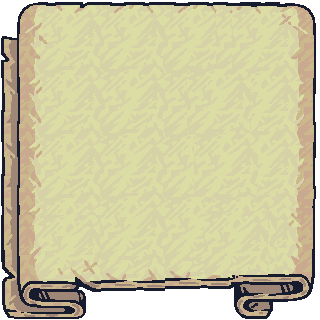
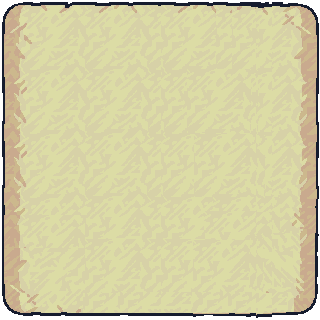
Add changes for release 7

diff --git a/src/client/scenes/Game.ts b/src/client/scenes/Game.ts
@@ -410,7 +410,7 @@ export class Game extends Scene {
     const stepsBg = this.add.image(offset, -offset, 'btn_steps').setOrigin(0.5);
     stepsBg.setDisplaySize(btnScale, btnScale);
     this.stepText = this.add.text(offset, -offset, '0', {
-      fontFamily: 'Arial',
+      fontFamily: 'Patrick Hand',
       fontSize: '24px',
       color: '#333333',
       fontStyle: 'bold'
@@ -595,9 +595,11 @@ export class Game extends Scene {
     
     const bg = this.add.image(0, 0, 'popup_bg');
     bg.setDisplaySize(500, 400);
+
+    const banner = this.add.nineslice(0, -45, 'banner_slots', undefined, 470, 280, 64, 64, 64, 64, true, true).setOrigin(0.5);
     
     const title = this.add.text(0, -160, 'Level Complete!', {
-      fontFamily: 'Arial',
+      fontFamily: 'Patrick Hand',
       fontSize: '32px',
       color: '#ffcc00',
       align: 'center',
@@ -617,7 +619,7 @@ export class Game extends Scene {
       wordWrap: { width: 436, useAdvancedWrap: true }
     }).setOrigin(0.5);
 
-    popup.add([bg, title, scoreText, loadingText]);
+    popup.add([bg, banner, title, scoreText, loadingText]);
 
     let scaleFactor = Math.min(this.scale.width / 1024, this.scale.height / 768, 1.2);
     if (this.scale.width < 800) {
@@ -659,7 +661,7 @@ export class Game extends Scene {
       const attempts = lbData.attempts || 0;
       const solves = lbData.solves || 0;
       const statsText = this.add.text(0, 70, `Global Stats: ${attempts} Plays | ${solves} Solves`, {
-        fontFamily: 'Arial',
+        fontFamily: 'Patrick Hand',
         fontSize: '16px',
         color: '#ffcc00',
         align: 'center',
@@ -678,7 +680,7 @@ export class Game extends Scene {
     okImg.setDisplaySize(140, 50);
     
     const okText = this.add.text(0, -4, 'Retry', {
-      fontFamily: 'Arial Black',
+      fontFamily: 'Patrick Hand',
       fontSize: '20px',
       color: '#ffffff',
       stroke: '#000000',
@@ -713,12 +715,16 @@ export class Game extends Scene {
     bg.setDisplaySize(400, 240);
     
     const text = this.add.text(0, -30, msg, {
-      fontFamily: 'Arial Black',
+      fontFamily: 'Patrick Hand',
       fontSize: '32px',
       color: '#ffffff',
       align: 'center',
       wordWrap: { width: 336, useAdvancedWrap: true }
     }).setOrigin(0.5);
+
+    const bannerWidth = Math.max(128, text.width + 60);
+    const bannerHeight = Math.max(128, text.height + 60);
+    const banner = this.add.nineslice(0, -30, 'banner_slots', undefined, bannerWidth, bannerHeight, 64, 64, 64, 64, true, true).setOrigin(0.5);
 
     // Add a retry button
     const retryBtn = this.add.container(0, 60);
@@ -726,7 +732,7 @@ export class Game extends Scene {
     retryImg.setDisplaySize(140, 50);
     
     const retryText = this.add.text(0, -4, 'Retry', {
-      fontFamily: 'Arial Black',
+      fontFamily: 'Patrick Hand',
       fontSize: '20px',
       color: '#ffffff',
       stroke: '#000000',
@@ -748,7 +754,7 @@ export class Game extends Scene {
     });
 
     retryBtn.add([retryImg, retryText]);
-    popup.add([bg, text, retryBtn]);
+    popup.add([bg, banner, text, retryBtn]);
     
     // Scale popup with game size
     let scaleFactor = Math.min(this.scale.width / 1024, this.scale.height / 768, 1.5);

diff --git a/src/client/scenes/MainMenu.ts b/src/client/scenes/MainMenu.ts
@@ -66,7 +66,7 @@ export class MainMenu extends Scene {
       const img = this.add.image(0, 0, 'menu_btn').setInteractive({ useHandCursor: true });
       img.setDisplaySize(240, 65);
       const txt = this.add.text(0, -4, 'Play Game', {
-        fontFamily: 'Arial Black',
+        fontFamily: 'Patrick Hand',
         fontSize: '28px',
         color: '#ffffff',
         stroke: '#000000',
@@ -99,7 +99,7 @@ export class MainMenu extends Scene {
       const img = this.add.image(0, 0, 'menu_btn').setInteractive({ useHandCursor: true });
       img.setDisplaySize(260, 65);
       const txt = this.add.text(0, -4, 'Level Designer', {
-        fontFamily: 'Arial Black',
+        fontFamily: 'Patrick Hand',
         fontSize: '24px',
         color: '#ffffff',
         stroke: '#000000',
@@ -147,7 +147,7 @@ export class MainMenu extends Scene {
     const title = document.createElement('h1');
     title.innerText = 'Select Base Level';
     title.style.color = 'white';
-    title.style.fontFamily = 'Arial, sans-serif';
+    title.style.fontFamily = 'Patrick Hand, cursive';
     title.style.marginBottom = '20px';
     overlay.appendChild(title);
 
@@ -170,7 +170,7 @@ export class MainMenu extends Scene {
       btn.innerText = text;
       btn.style.padding = '15px 30px';
       btn.style.fontSize = '18px';
-      btn.style.fontFamily = 'Arial Black';
+      btn.style.fontFamily = 'Patrick Hand';
       btn.style.cursor = 'pointer';
       btn.style.color = 'white';
       btn.style.border = 'none';
@@ -282,7 +282,7 @@ export class MainMenu extends Scene {
     bg.setDisplaySize(400, 240);
     
     const text = this.add.text(0, -40, msg, {
-      fontFamily: 'Arial Black',
+      fontFamily: 'Patrick Hand',
       fontSize: '24px',
       color: '#ffffff',
       stroke: '#000000',
@@ -291,12 +291,16 @@ export class MainMenu extends Scene {
       wordWrap: { width: 336, useAdvancedWrap: true }
     }).setOrigin(0.5);
 
+    const bannerWidth = Math.max(128, text.width + 60);
+    const bannerHeight = Math.max(128, text.height + 60);
+    const banner = this.add.nineslice(0, -40, 'banner_slots', undefined, bannerWidth, bannerHeight, 64, 64, 64, 64, true, true).setOrigin(0.5);
+
     const okBtn = this.add.container(0, 70);
     const okImg = this.add.image(0, 0, 'menu_btn').setInteractive({ useHandCursor: true });
     okImg.setDisplaySize(140, 50); // smaller button for popup
     
     const okText = this.add.text(0, -4, 'OK', {
-      fontFamily: 'Arial Black',
+      fontFamily: 'Patrick Hand',
       fontSize: '20px',
       color: '#ffffff',
       stroke: '#000000',
@@ -319,7 +323,7 @@ export class MainMenu extends Scene {
 
     okBtn.add([okImg, okText]);
 
-    popup.add([bg, text, okBtn]);
+    popup.add([bg, banner, text, okBtn]);
     
     // Scale popup with game size
     let scaleFactor = Math.min(this.scale.width / 1024, this.scale.height / 768, 1.5);

diff --git a/src/client/splash.css b/src/client/splash.css
@@ -1,9 +1,14 @@
+@font-face {
+  font-family: 'Patrick Hand';
+  src: url('/assets/fonts/PatrickHand-Regular.ttf') format('truetype');
+}
+
 * {
   box-sizing: border-box;
   margin: 0;
   padding: 0;
   font-family: -apple-system, BlinkMacSystemFont, "Segoe UI", Roboto, Helvetica,
-    Arial, sans-serif;
+    Patrick Hand, cursive;
   color: #000000;
 }
 

diff --git a/src/client/game.css b/src/client/game.css
@@ -1,8 +1,14 @@
+@font-face {
+  font-family: 'Patrick Hand';
+  src: url('/assets/fonts/PatrickHand-Regular.ttf') format('truetype');
+}
+
 body {
   margin: 0;
   padding: 0;
   color: rgba(255, 255, 255, 0.87);
   background-color: #47aba9;
+  font-family: 'Patrick Hand', sans-serif;
 }
 
 #app {

diff --git a/src/client/scenes/LevelDesigner.ts b/src/client/scenes/LevelDesigner.ts
@@ -182,7 +182,7 @@ export class LevelDesigner extends Scene {
     const backImg = this.add.image(0, 0, 'menu_btn').setOrigin(0, 0).setInteractive({ useHandCursor: true });
     backImg.setDisplaySize(140, 50);
     const backText = this.add.text(70, 25, '⬅ Back', {
-      fontFamily: 'Arial Black', fontSize: '18px', color: '#ffffff', stroke: '#000000', strokeThickness: 4
+      fontFamily: 'Patrick Hand', fontSize: '18px', color: '#ffffff', stroke: '#000000', strokeThickness: 4
     }).setOrigin(0.5);
     
     backImg.on('pointerdown', () => { backImg.setTexture('menu_btn_pressed'); backText.setY(29); });
@@ -196,7 +196,7 @@ export class LevelDesigner extends Scene {
     const pubImg = this.add.image(0, 0, 'menu_btn').setOrigin(1, 0).setInteractive({ useHandCursor: true });
     pubImg.setDisplaySize(240, 50);
     const pubText = this.add.text(-120, 25, 'Publish to Reddit', {
-      fontFamily: 'Arial Black', fontSize: '18px', color: '#ffffff', stroke: '#000000', strokeThickness: 4
+      fontFamily: 'Patrick Hand', fontSize: '18px', color: '#ffffff', stroke: '#000000', strokeThickness: 4
     }).setOrigin(0.5);
 
     pubImg.on('pointerdown', () => { pubImg.setTexture('menu_btn_pressed'); pubText.setY(29); });
@@ -713,7 +713,7 @@ export class LevelDesigner extends Scene {
     overlay.style.alignItems = 'center';
     overlay.style.zIndex = '1000';
     overlay.style.color = 'white';
-    overlay.style.fontFamily = 'Arial, sans-serif';
+    overlay.style.fontFamily = 'Patrick Hand, cursive';
 
     const title = document.createElement('h2');
     title.innerText = 'Publish Level to Reddit';

diff --git a/src/client/scenes/Preloader.ts b/src/client/scenes/Preloader.ts
@@ -94,9 +94,10 @@ export class Preloader extends Scene {
     this.load.image('btn_close_pressed', 'other_buttons/close_button_pressed.png');
     
     // Main Menu buttons
+    this.load.image('popup_bg', 'woodentable/woodentable.png');
     this.load.image('menu_btn', 'woodentable/bigBlueButtonUnpressed.png');
     this.load.image('menu_btn_pressed', 'woodentable/bluebuttonPressed.png');
-    this.load.image('popup_bg', 'woodentable/woodentable.png');
+    this.load.image('banner_slots', 'woodentable/Banner_Slots.png');
     this.load.image('btn_steps', 'other_buttons/steps_button.png');
     this.load.image('btn_steps_pressed', 'other_buttons/steps_button_pressed.png');
     this.load.image('btn_replay', 'other_buttons/replay_button.png');

diff --git a/src/client/scenes/GameOver.ts b/src/client/scenes/GameOver.ts
@@ -21,7 +21,7 @@ export class GameOver extends Scene {
     // "Game Over" text – created once and scaled responsively
     this.gameover_text = this.add
       .text(0, 0, 'Game Over', {
-        fontFamily: 'Arial Black',
+        fontFamily: 'Patrick Hand',
         fontSize: '64px',
         color: '#ffffff',
         stroke: '#000000',